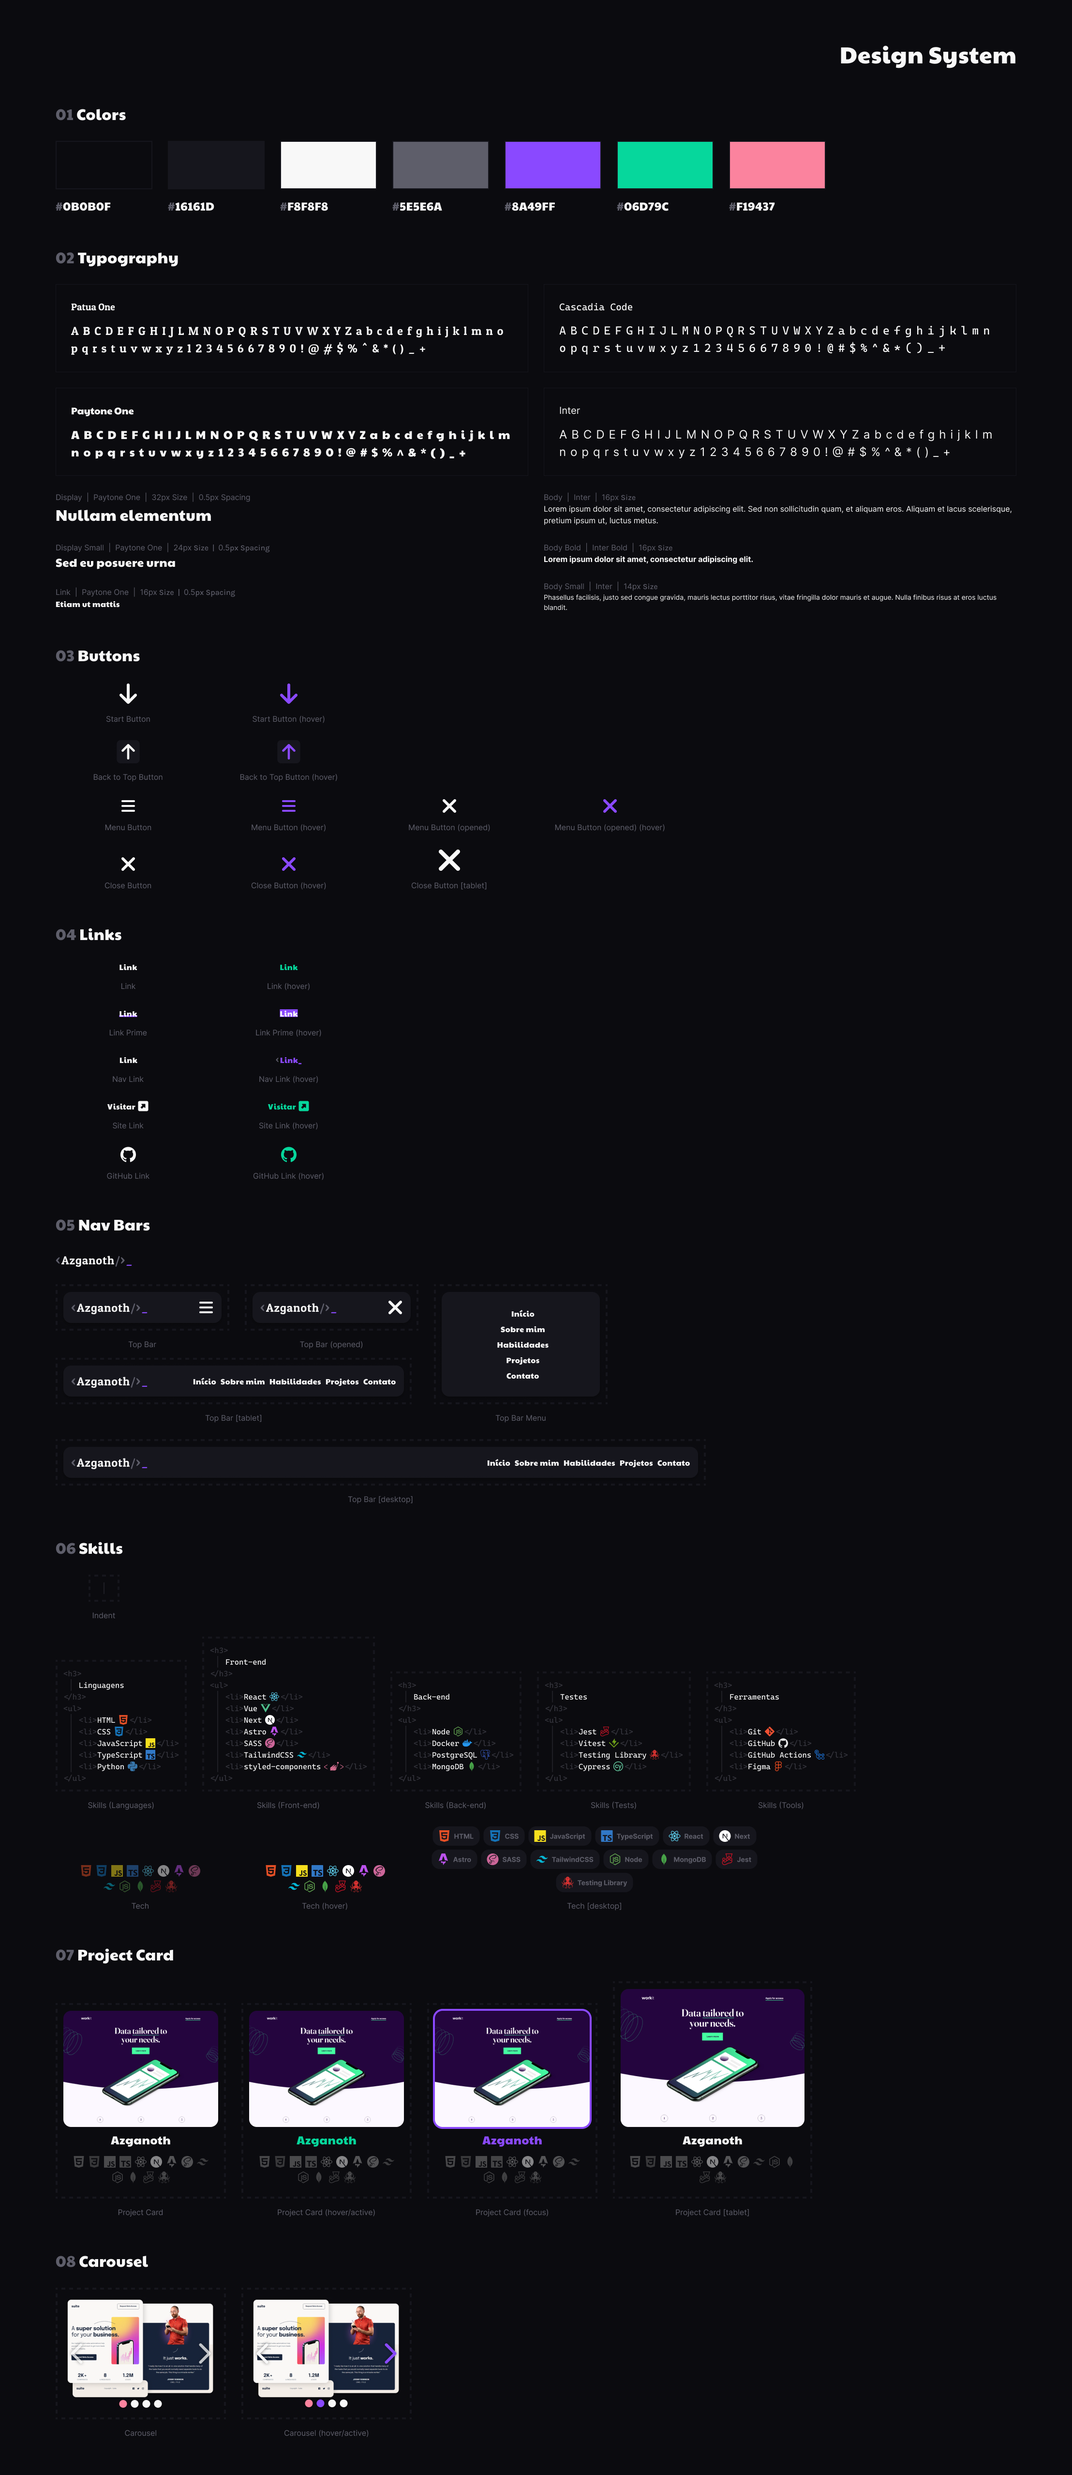
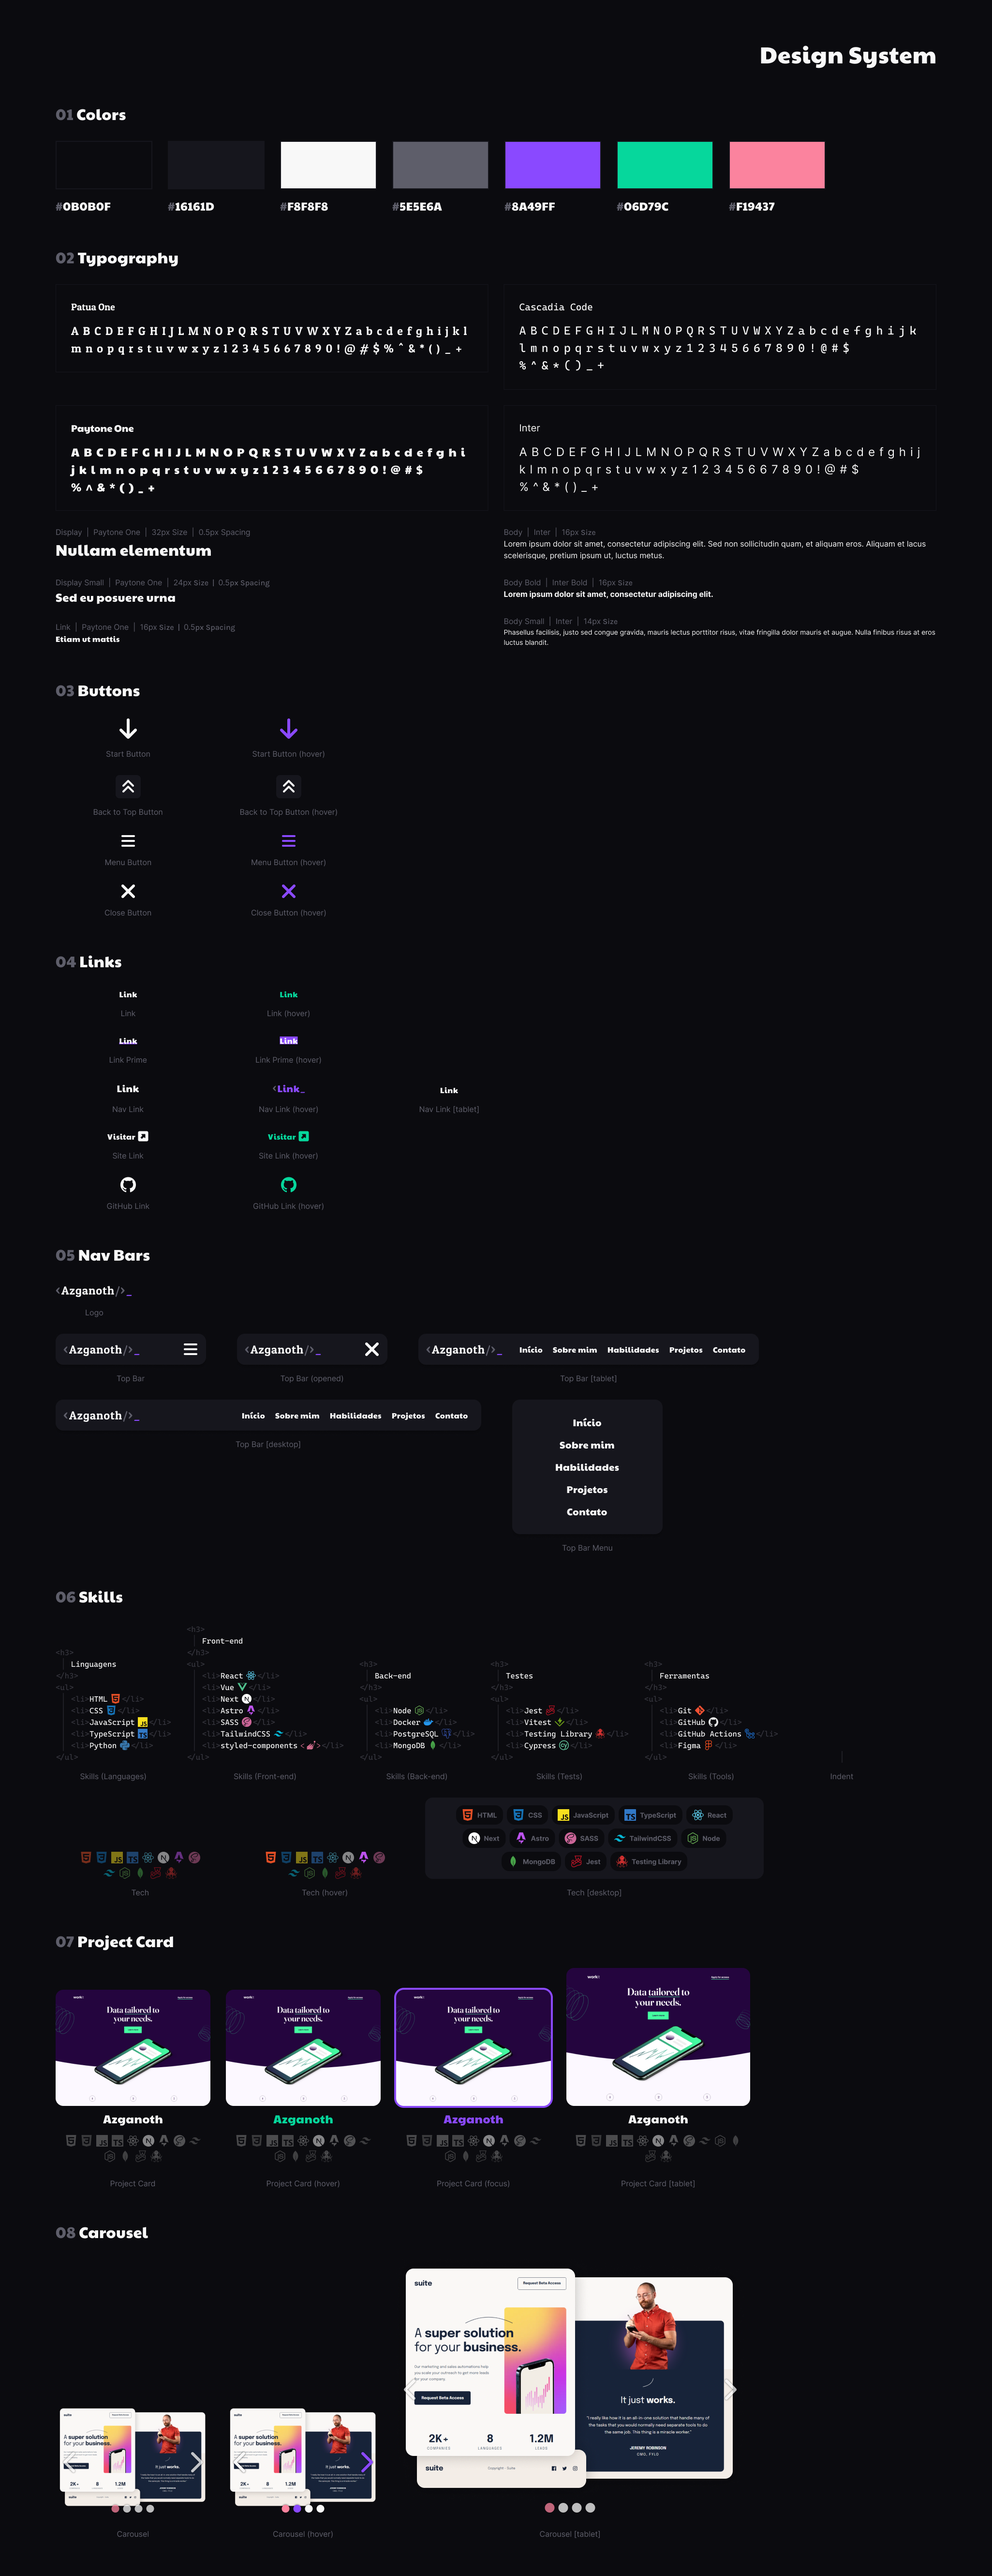
feat: implement design improvements
General:
- Add responsive height adjustments for mobile screens

Carousel:
- Adjust Carousel button placement
- Enlarge Carousel navigation dots on tablet and desktop screens
- Enhance contrast for Carousel buttons

Project Details
- Switch to standard-sized close button
- Lighten Project Details background to improve contrast
- Enhance contrast for Project Details buttons

Navigation
- Enlarge mobile navigation links
- Apply decorative font to caret symbol
- Match decorative HTML tag width to caret width
- Increase spacing between mobile navigation links
- Center and constrain navigation bar width
- Replace Back to Top button icon

diff --git a/src/components/interactive/ProjectDetails.tsx b/src/components/interactive/ProjectDetails.tsx
@@ -56,13 +56,13 @@ function ProjectDetails() {
   return (
     <dialog
       ref={dialogRef}
-      class="z-20 max-w-[320px] overflow-hidden rounded-2xl bg-slate text-white backdrop:bg-[rgba(0,0,0,0.9)] md:max-w-[552px] lg:grid lg:max-w-[1300px]"
+      class="z-20 max-w-[320px] overflow-hidden rounded-2xl bg-charcoal text-white backdrop:bg-[rgba(0,0,0,0.9)] md:max-w-[552px] lg:grid lg:max-w-[1300px]"
       onClick={handleOutsideClick}
     >
       {proj && (
         <>
           <button
-            class="push-down absolute right-2 top-2 z-10 select-none text-2xl hover:text-orchid md:text-3xl"
+            class="push-down absolute right-4 top-4 z-10 select-none text-2xl hover:text-orchid"
             type="button"
             onClick={close}
             aria-label="Fechar detalhes do projeto"
@@ -71,7 +71,7 @@ function ProjectDetails() {
           </button>
           <div class="grid lg:grid-cols-2">
             <Carousel slides={slides} />
-            <article class="flex flex-col gap-4 overflow-hidden px-6 pb-6 pt-4 lg:col-start-1 lg:row-start-1 lg:gap-8 lg:p-8">
+            <article class="flex flex-col gap-4 overflow-hidden px-6 pb-6 pt-4 lg:col-start-1 lg:row-start-1 lg:gap-8 lg:px-8 lg:pb-8 lg:pt-6">
               <h3 class="display-s">{proj.title}</h3>
               <p class="mb-auto">{proj.description}</p>
               <TechShowcase

diff --git a/src/components/shared/Link.tsx b/src/components/shared/Link.tsx
@@ -24,7 +24,7 @@ function Link({
         type === "prime" &&
           "relative z-0 after:absolute after:-inset-x-[1%] after:bottom-[13.5%] after:-z-1 after:h-4 after:origin-bottom after:scale-y-25 after:bg-orchid after:transition-transform after:duration-300 after:ease-out after:content-[''] hover:text-white hover:after:scale-100 motion-reduce:transition-none",
         type === "nav" &&
-          "before:mr-0.5 before:font-decorative before:text-gray before:opacity-0 before:content-['<'] after:opacity-0 after:content-[--underscore] hover:text-orchid hover:before:opacity-100 hover:after:animate-blink hover:after:opacity-100",
+          "before:px-0.5 before:font-decorative before:text-gray before:opacity-0 before:content-['<'] after:font-decorative after:opacity-0 after:content-[--underscore] hover:text-orchid hover:before:opacity-100 hover:after:animate-blink hover:after:opacity-100 max-md:text-l",
         className,
       )}
       href={href}

diff --git a/src/components/interactive/Carousel.tsx b/src/components/interactive/Carousel.tsx
@@ -57,13 +57,13 @@ function Carousel({ slides }: CarouselProps) {
       >
         <Icon class="drop-shadow-stand-out" name="chevron-right" />
       </button>
-      <ul class="absolute bottom-2 left-1/2 flex -translate-x-1/2 gap-2">
+      <ul class="absolute bottom-4 left-1/2 flex -translate-x-1/2 gap-2">
         {slides.map((_, i) => (
-          <li key={i}>
+          <li key={i} class="md:text-l">
             <button
               class={simpleCX(
                 "push-down block select-none hover:text-orchid",
-                i === currentSlide && "text-pink",
+                i === currentSlide && "text-pink hover:text-pink",
               )}
               type="button"
               onClick={() => {

diff --git a/CHANGELOG.md b/CHANGELOG.md
@@ -1,3 +1,30 @@
+# 6/12/2024
+
+## General
+
+- Add responsive height adjustments for mobile screens
+
+## Carousel
+
+- Adjust Carousel button placement
+- Enlarge Carousel navigation dots on tablet and desktop screens
+- Enhance contrast for Carousel buttons
+
+## Project Details
+
+- Switch to standard-sized close button
+- Lighten Project Details background to improve contrast
+- Enhance contrast for Project Details buttons
+
+## Navigation
+
+- Enlarge mobile navigation links
+- Apply decorative font to caret symbol
+- Match decorative HTML tag width to caret width
+- Increase spacing between mobile navigation links
+- Center and constrain navigation bar width
+- Replace Back to Top button icon
+
 # 5/12/2024
 
 ## Performance
